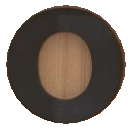
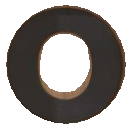
update checker

Changed region(s): [[0.3008, 0.25, 0.6917, 0.7188]]

diff --git a/python/2_LearnPython/codes/TicTacToe/checker.py b/python/2_LearnPython/codes/TicTacToe/checker.py
@@ -1,3 +1,29 @@
-class Checker:
-    def __init__(self) -> None:
-        pass
+import pygame
+
+class Checker:    
+    # value:str
+    # img:any
+    # position:tuple(int,int)    
+    def __init__(self,val:str,img:any,pos:tuple) -> None:
+        self.value=val
+        self.img=pygame.transform.scale(img, (100,100))
+        self.position=pos
+    
+    def display(self,screen) ->None:
+        screen.blit(self.img, self.position)
+    
+    def getValue(self) ->str:
+        return self.value
+    
+class CheckerO(Checker):
+    imgO:any=pygame.image.load("checker_O.png")
+    
+    def __init__(self,x,y):
+        
+        super().__init__("O",self.imgO,(x,y)) 
+        
+
+class CheckerX(Checker):
+    imgX:any=pygame.image.load("checker_X.png") 
+    def __init__(self,x,y):
+        super().__init__("X",self.imgX,(x,y)) 

diff --git a/python/2_LearnPython/codes/TicTacToe/board.py b/python/2_LearnPython/codes/TicTacToe/board.py
@@ -1,3 +1,4 @@
+from checker import CheckerO,CheckerX
 import pygame
 
 class Board:
@@ -5,6 +6,11 @@ class Board:
     def __init__(self,x:float,y:float,width:int,height:int) -> None:
         self.pos:list[float]=[x,y]
         self.img=pygame.transform.scale(self.img, (width, height))
+        self.checker1=CheckerO(100,100)
+        self.checker2=CheckerX(300,100)
         
     def display(self,screen) ->None:
         screen.blit(self.img, self.pos)
+        self.checker1.display(screen)
+        self.checker2.display(screen)
+    
